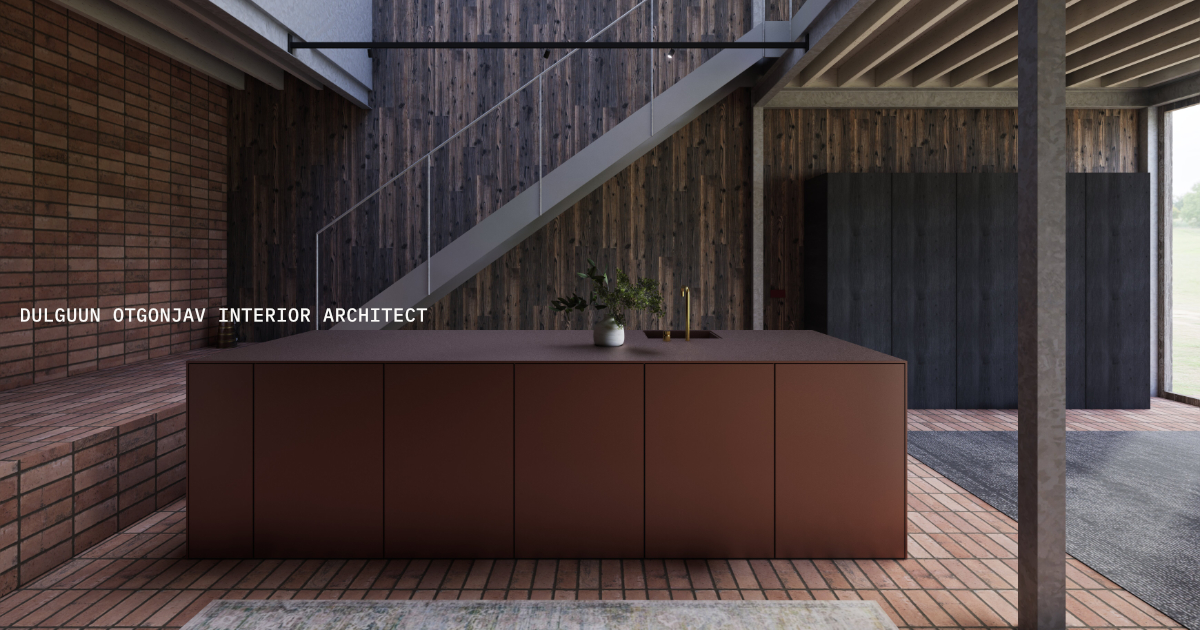
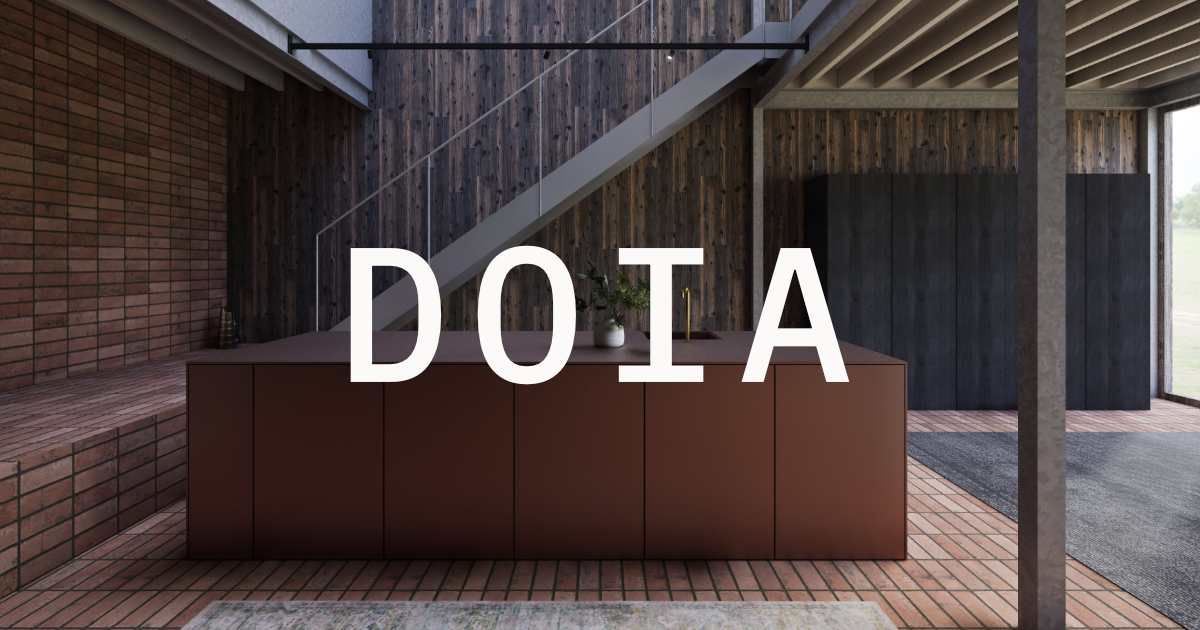
Add files via upload

diff --git a/contact.html b/contact.html
@@ -202,8 +202,7 @@
 
 <main>
   <header class="shell page-head">
-    <p class="eyebrow reveal">Neem contact op</p>
-    <h1 class="h-display reveal d1" style="margin-top: 18px;">Contact</h1>
+    <h1 class="h-display reveal">Contact</h1>
     <p class="lead reveal d2" style="margin-top: 26px; max-width: 38ch;">Advies aanvragen is altijd vrijblijvend, zodat deskundige begeleiding altijd binnen bereik is.</p>
   </header>
 
